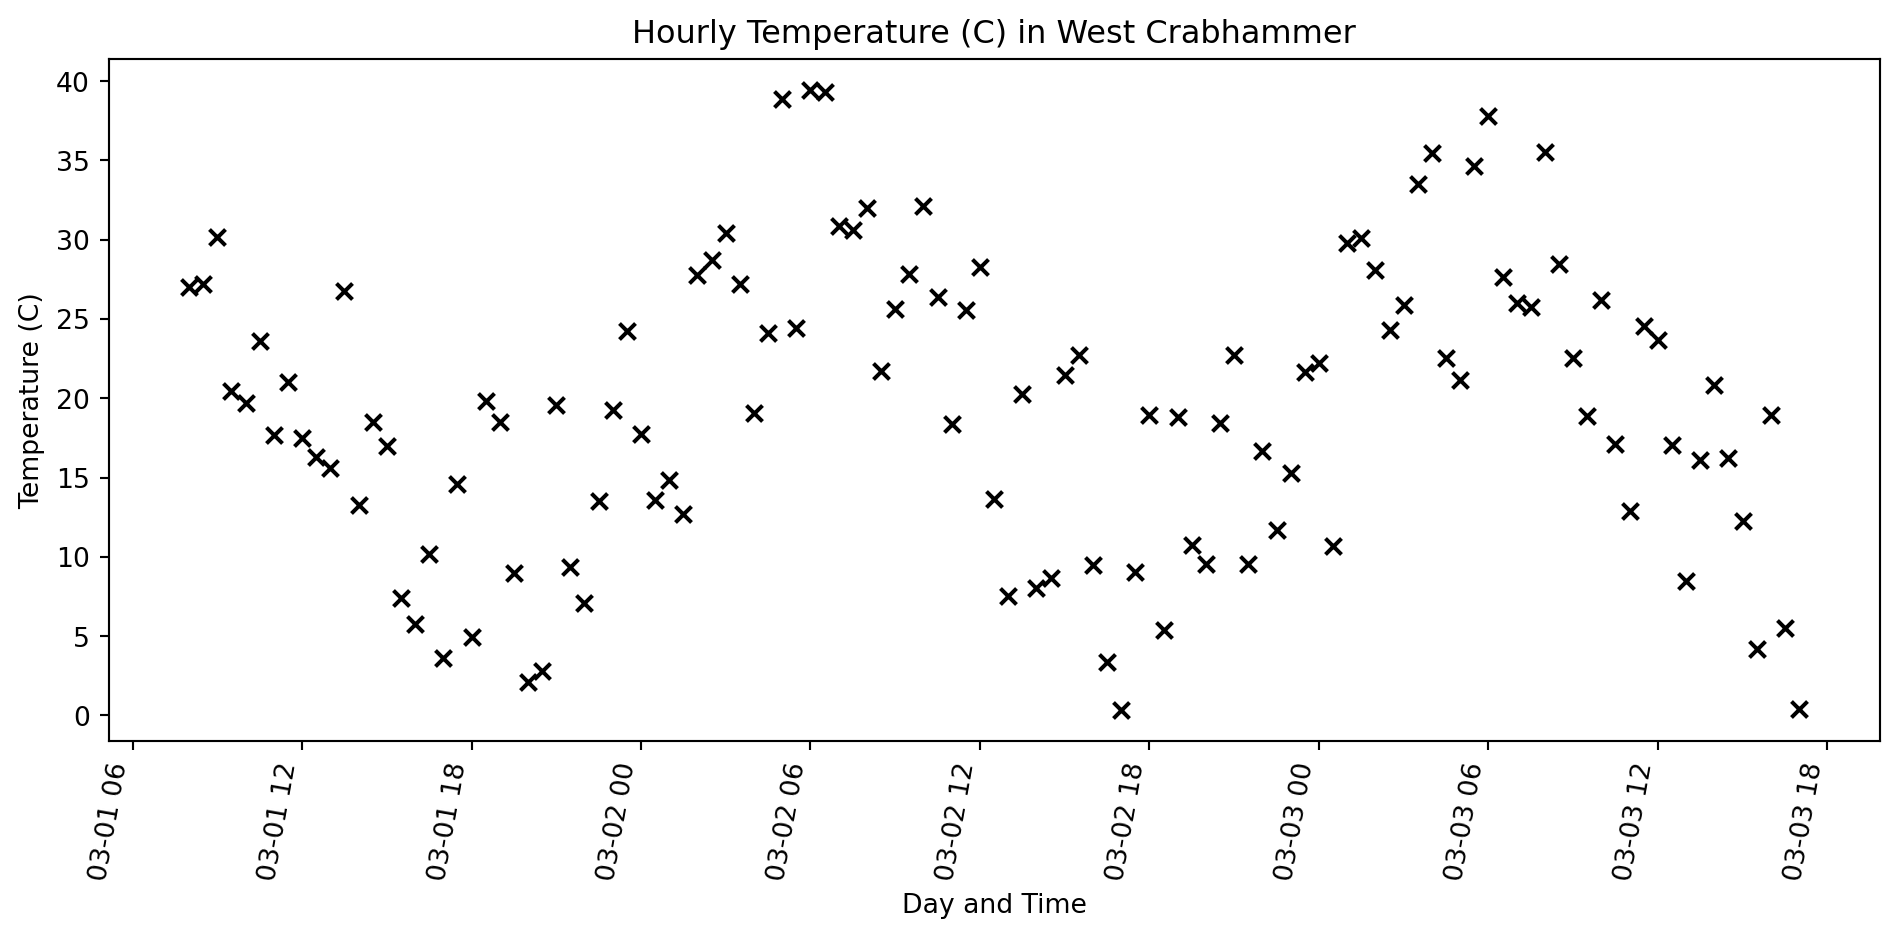
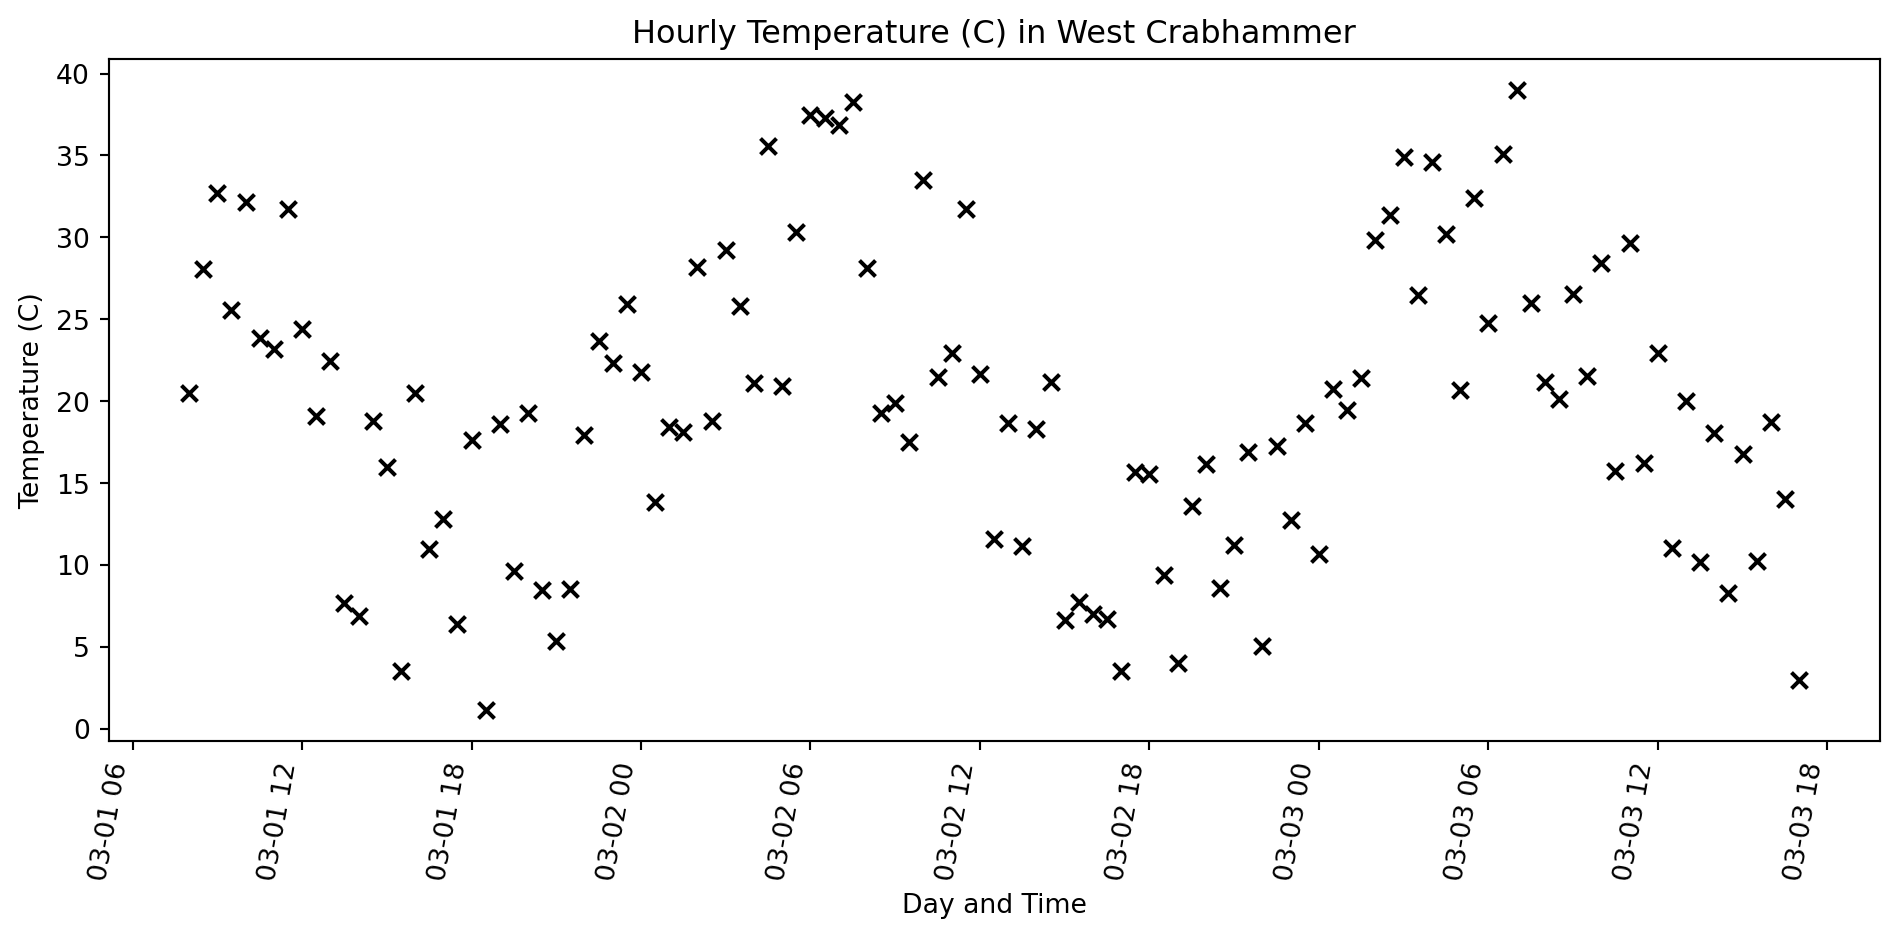
changed

diff --git a/docs/python_geospatial_basics.html b/docs/python_geospatial_basics.html
@@ -243,7 +243,7 @@
 <h2>Starting a Jupyter Lab</h2>
 <div class="sourceCode" id="cb4"><pre class="sourceCode numberSource {bash} number-lines code-with-copy"><code class="sourceCode"><span id="cb4-1"><a></a>jupyter lab</span></code><button title="Copy to Clipboard" class="code-copy-button"><i class="bi"></i></button></pre></div>
 <p>This will open a new jupyter lab in your browser. ## Using VScode</p>
-<p>stuff</p>
+<p>Running Jupyter in VScode offers some advantages (in my opinion). To do this you need to install the jupyter extension and the Python Extension.</p>
 </section>
 <section id="basic-python-data-types" class="slide level2 scrollable">
 <h2>Basic Python data types</h2>
@@ -293,7 +293,7 @@
 <section id="basic-numbers" class="slide level2">
 <h2>Basic Numbers</h2>
 <p>Floats and Ints don’t do anything all that surprising</p>
-<div id="2217d3fa" class="cell columns column-output-location" data-execution_count="1">
+<div id="e5bad879" class="cell columns column-output-location" data-execution_count="1">
 <div class="column">
 <div class="sourceCode cell-code" id="cb5"><pre class="sourceCode numberSource python number-lines code-with-copy"><code class="sourceCode python"><span id="cb5-1"><a></a>a <span class="op">=</span> <span class="dv">2</span> <span class="op">+</span> <span class="dv">2</span></span>
 <span id="cb5-2"><a></a>b <span class="op">=</span> <span class="fl">2.0</span> <span class="op">+</span> <span class="fl">2.0</span></span>
@@ -320,7 +320,7 @@ but 5 // 4 is 1</code></pre>
 <section id="sequences" class="slide level2">
 <h2>Sequences</h2>
 <p>Lists, tuples, and strings ae all sequences</p>
-<div id="459ebe93" class="cell columns column-output-location" data-execution_count="2">
+<div id="3ade0acb" class="cell columns column-output-location" data-execution_count="2">
 <div class="column">
 <div class="sourceCode cell-code" id="cb7"><pre class="sourceCode numberSource python number-lines code-with-copy"><code class="sourceCode python"><span id="cb7-1"><a></a><span class="co"># a list</span></span>
 <span id="cb7-2"><a></a>a_list <span class="op">=</span> [<span class="dv">1</span>, <span class="dv">2</span>, <span class="dv">3</span>, <span class="dv">4</span>, <span class="dv">5</span>, <span class="dv">6</span>, <span class="dv">7</span>, <span class="dv">8</span>, <span class="dv">9</span>]</span>
@@ -367,7 +367,7 @@ neushorn?</code></pre>
 </section>
 <section id="dictionaries" class="slide level2">
 <h2>Dictionaries</h2>
-<div id="f34fbe56" class="cell columns column-output-location" data-execution_count="3">
+<div id="8d00e41a" class="cell columns column-output-location" data-execution_count="3">
 <div class="column">
 <div class="sourceCode cell-code" id="cb9"><pre class="sourceCode numberSource python number-lines code-with-copy"><code class="sourceCode python"><span id="cb9-1"><a></a>pets <span class="op">=</span> {<span class="st">'honden'</span>: <span class="dv">26</span>, <span class="st">'katten'</span>: <span class="dv">100</span>}</span>
 <span id="cb9-2"><a></a></span>
@@ -386,7 +386,7 @@ neushorn?</code></pre>
 </section>
 <section id="iterating" class="slide level2">
 <h2>Iterating</h2>
-<div id="6d2fec39" class="cell columns column-output-location" data-execution_count="4">
+<div id="443710ff" class="cell columns column-output-location" data-execution_count="4">
 <div class="column">
 <div class="sourceCode cell-code" id="cb11"><pre class="sourceCode numberSource python number-lines code-with-copy"><code class="sourceCode python"><span id="cb11-1"><a></a>a <span class="op">=</span> [<span class="dv">1</span>, <span class="dv">2</span>, <span class="dv">3</span>, <span class="dv">4</span>, <span class="dv">5</span>, <span class="dv">6</span>, <span class="dv">7</span>, <span class="dv">8</span>, <span class="dv">9</span>]</span>
 <span id="cb11-2"><a></a></span>
@@ -411,11 +411,10 @@ is the same as
 </section>
 <section id="pandas" class="slide level2">
 <h2>Pandas</h2>
-<p><img width="560" height="315" src="images/pandas.png"></p>
 </section>
 <section id="pandas-dataframe" class="slide level2 scrollable">
 <h2>Pandas DataFrame</h2>
-<div id="c33378c6" class="cell columns column-output-location" data-execution_count="5">
+<div id="1c5facf5" class="cell columns column-output-location" data-execution_count="5">
 <div class="column">
 <div class="sourceCode cell-code" id="cb13"><pre class="sourceCode numberSource python number-lines code-with-copy"><code class="sourceCode python"><span id="cb13-1"><a></a><span class="im">from</span> datetime <span class="im">import</span> datetime, timedelta</span>
 <span id="cb13-2"><a></a><span class="im">from</span> random <span class="im">import</span> uniform</span>
@@ -478,27 +477,27 @@ is the same as
 <tr class="odd">
 <td data-quarto-table-cell-role="th">0</td>
 <td>2025-03-01 08:00:00</td>
-<td>21.436029</td>
+<td>18.765643</td>
 </tr>
 <tr class="even">
 <td data-quarto-table-cell-role="th">1</td>
 <td>2025-03-01 08:30:00</td>
-<td>20.521092</td>
+<td>20.575648</td>
 </tr>
 <tr class="odd">
 <td data-quarto-table-cell-role="th">2</td>
 <td>2025-03-01 09:00:00</td>
-<td>19.941988</td>
+<td>24.549478</td>
 </tr>
 <tr class="even">
 <td data-quarto-table-cell-role="th">3</td>
 <td>2025-03-01 09:30:00</td>
-<td>22.344586</td>
+<td>32.080918</td>
 </tr>
 <tr class="odd">
 <td data-quarto-table-cell-role="th">4</td>
 <td>2025-03-01 10:00:00</td>
-<td>28.807851</td>
+<td>23.518311</td>
 </tr>
 </tbody>
 </table>
@@ -509,7 +508,7 @@ is the same as
 </section>
 <section id="pandas-dataframe-cont." class="slide level2 scrollable">
 <h2>Pandas DataFrame Cont.</h2>
-<div id="a352563f" class="cell columns column-output-location" data-execution_count="6">
+<div id="763dda62" class="cell columns column-output-location" data-execution_count="6">
 <div class="column">
 <div class="sourceCode cell-code" id="cb14"><pre class="sourceCode numberSource python number-lines code-with-copy"><code class="sourceCode python"><span id="cb14-1"><a></a><span class="im">from</span> datetime <span class="im">import</span> datetime, timedelta</span>
 <span id="cb14-2"><a></a><span class="im">from</span> random <span class="im">import</span> uniform</span>
@@ -617,9 +616,9 @@ Figure&nbsp;1: A line plot on a polar axis
 <h1>Exploring Vector Data with Geopandas</h1>
 
 </section>
-<section id="geopandas" class="slide level2">
+<section id="geopandas" class="slide level2" data-background-image="images/pandas.png">
 <h2>Geopandas</h2>
-<p>g e o p a n d a s</p>
+<p>&lt;–img width=“560” height=“315” src=“images/pandas.png”&gt;&lt;–/img&gt; g e o p a n d a s</p>
 </section>
 <section id="vector-data" class="slide level2 smaller">
 <h2>Vector Data</h2>
@@ -649,7 +648,7 @@ Figure&nbsp;1: A line plot on a polar axis
 </section>
 <section id="polygon" class="slide level2">
 <h2>Polygon</h2>
-<div id="f691acc3" class="cell columns column-output-location" data-execution_count="8">
+<div id="6b06c806" class="cell columns column-output-location" data-execution_count="8">
 <div class="column">
 <div class="sourceCode cell-code" id="cb16"><pre class="sourceCode numberSource python number-lines code-with-copy"><code class="sourceCode python"><span id="cb16-1"><a></a><span class="im">from</span> shapely <span class="im">import</span> Polygon</span>
 <span id="cb16-2"><a></a></span>
@@ -676,7 +675,7 @@ Figure&nbsp;1: A line plot on a polar axis
 <section id="reading-files" class="slide level2">
 <h2>Reading Files</h2>
 <p>Here we will read a geojson using the <code>read_file</code> method.</p>
-<div id="c919b153" class="cell columns column-output-location" data-execution_count="9">
+<div id="f2abeac9" class="cell columns column-output-location" data-execution_count="9">
 <div class="column">
 <div class="sourceCode cell-code" id="cb18"><pre class="sourceCode numberSource python number-lines code-with-copy"><code class="sourceCode python"><span id="cb18-1"><a></a><span class="im">from</span> pathlib <span class="im">import</span> Path</span>
 <span id="cb18-2"><a></a><span class="im">import</span> geopandas <span class="im">as</span> gpd</span>
